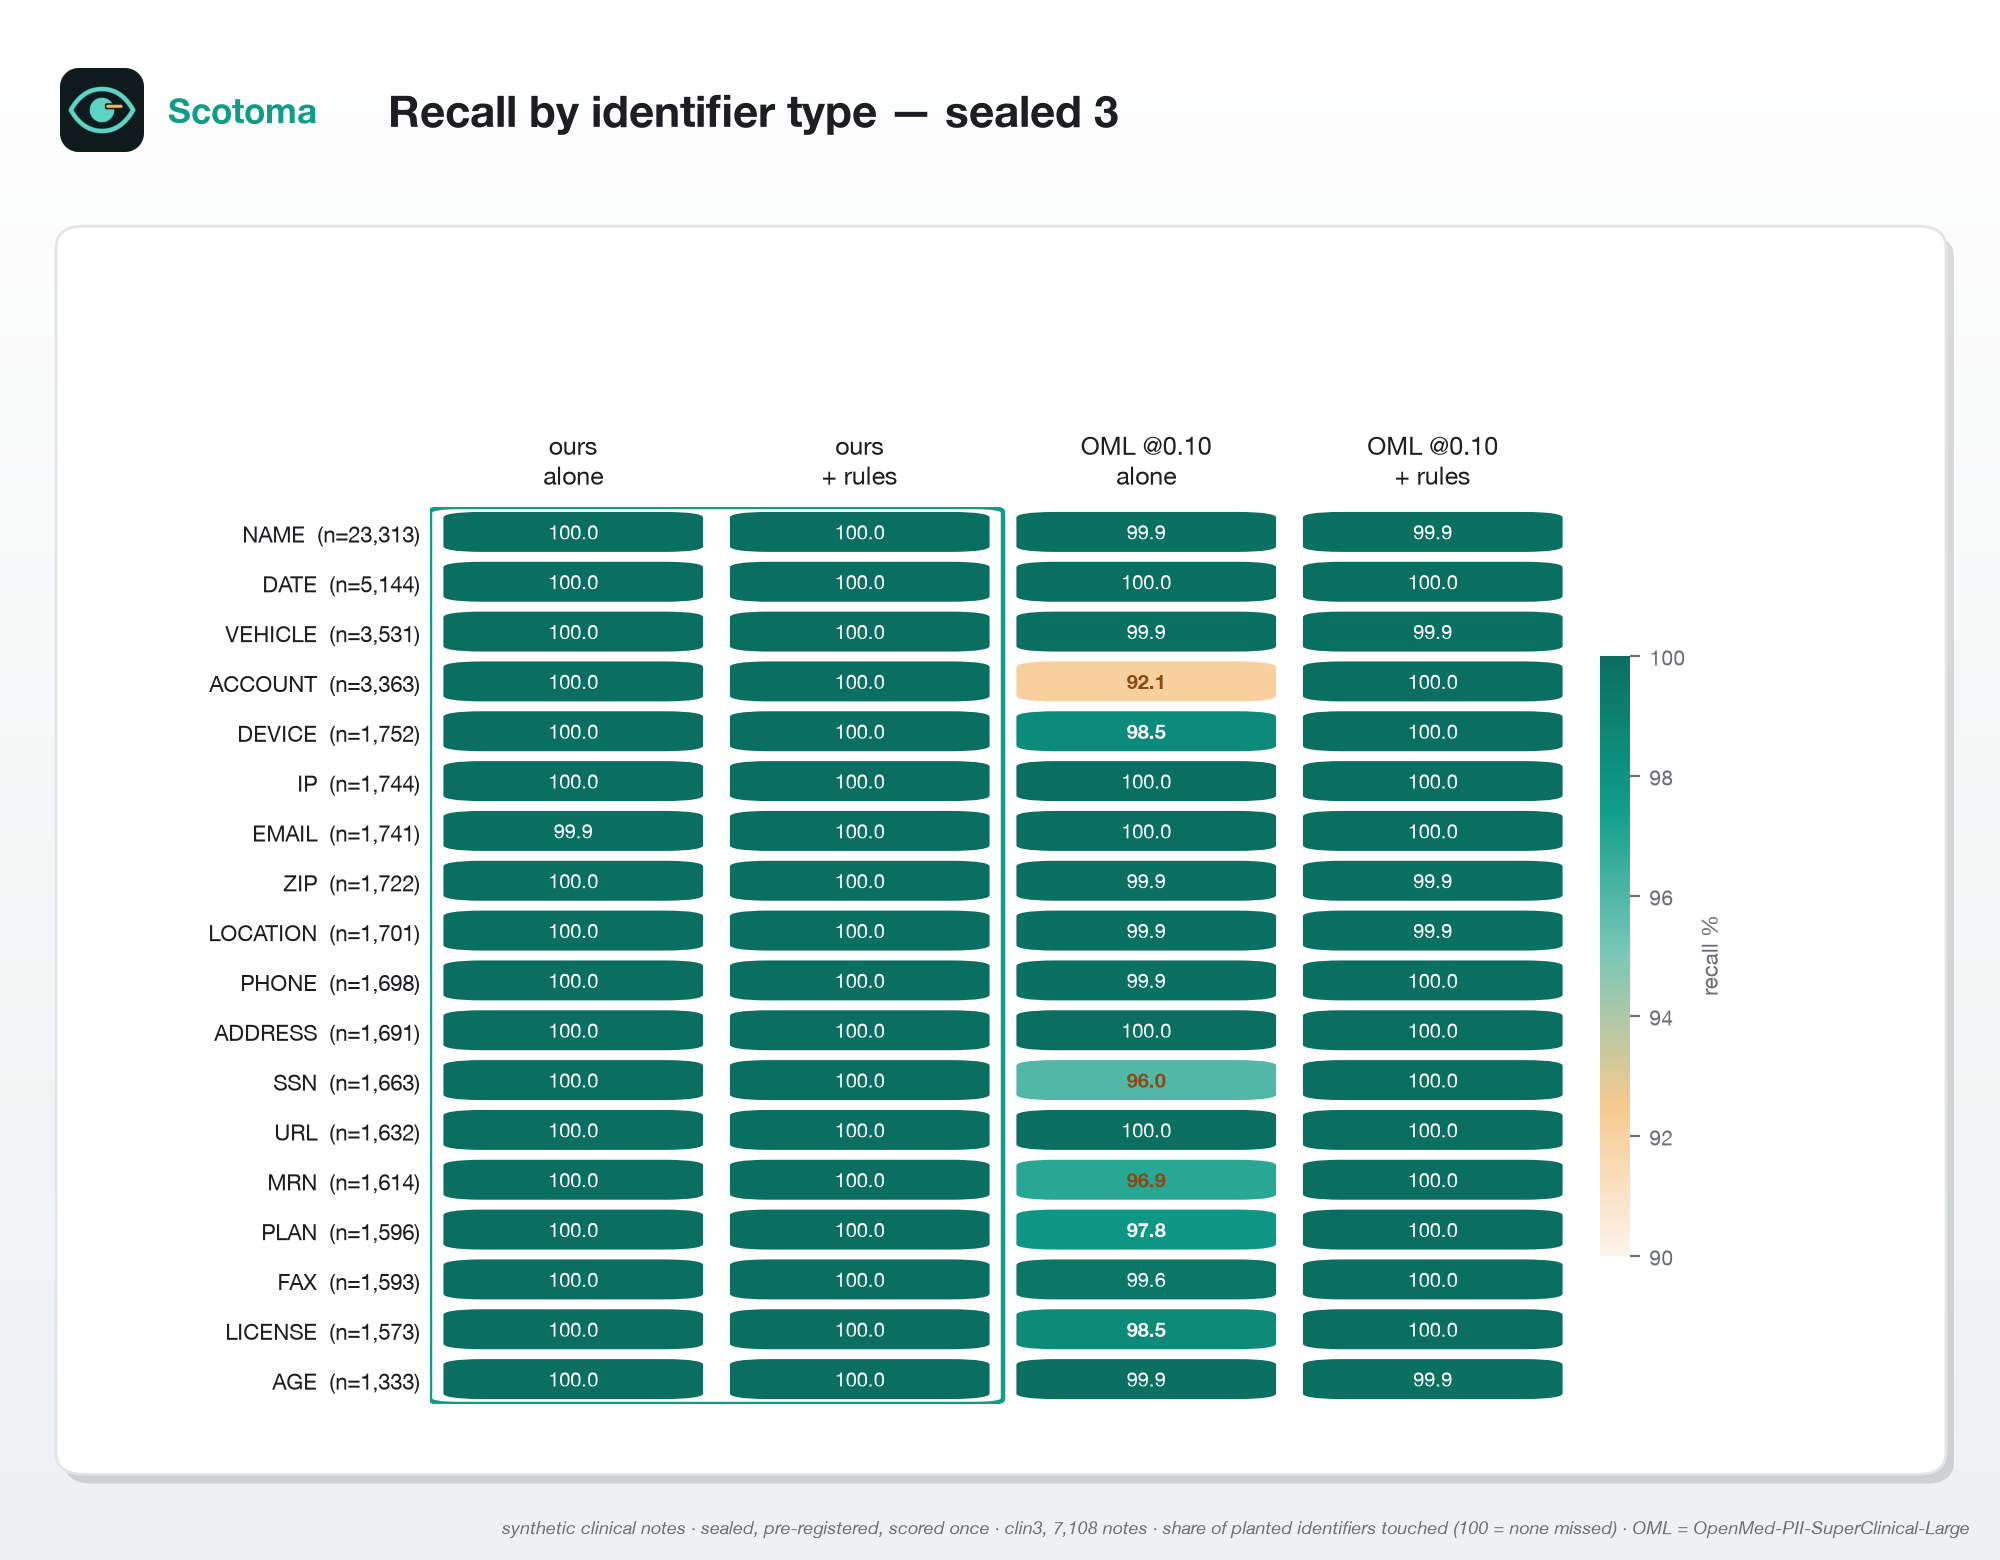
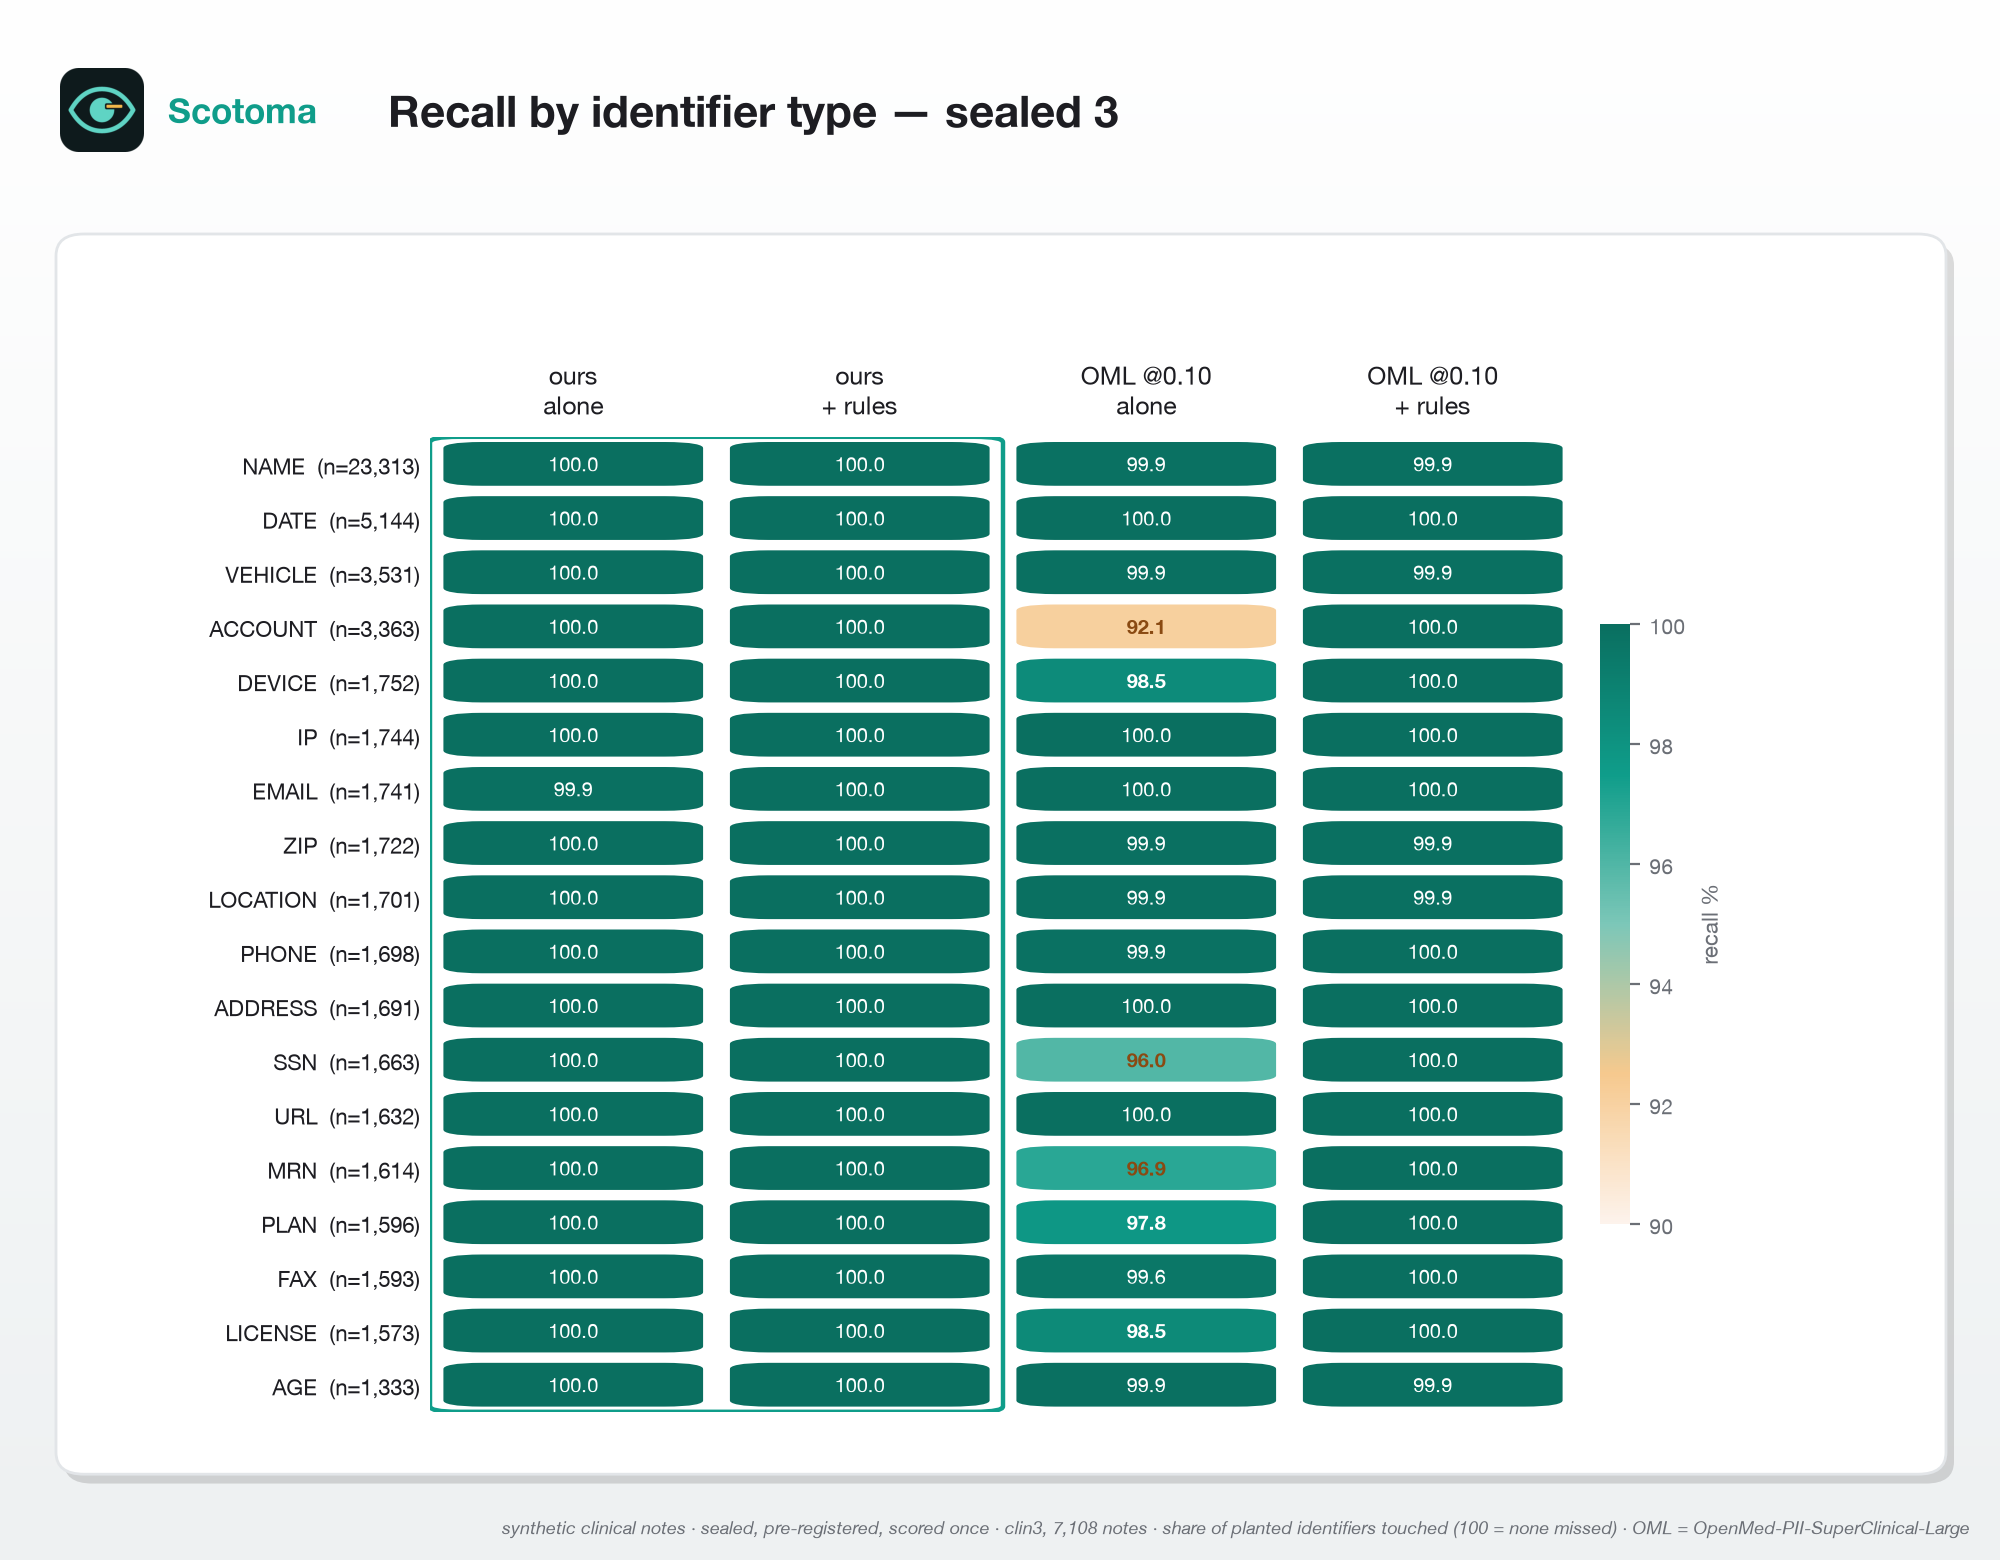
Figure fixes round 2: honest outputs, margins, no overlaps
- pipeline: drop unbuilt 'protect & unlock' output; 3 outputs
- field: explicit ylim so last row's bar shows fully; teal legend
  swatches outside the card
- progress: y starts at 0; verdict+p under each round as xticklabels
- speed: removed 'better' arrow and empty size panel; bubble labels
  carry 'name · size'; wider axes + leader lines fan out the 19-28 ms
  cluster; extra bottom margin
- hero: inner y margins so panel titles/labels clear card borders
- categories: card tightened around header row
- overlap gate now also checks legend texts and flags axes patches
  escaping their axes bounds

Changed region(s): [[0.093, 0.2154, 0.837, 0.9231], [0.837, 0.5846, 0.868, 0.6154]]

diff --git a/plots/make_card_figures.py b/plots/make_card_figures.py
@@ -171,6 +171,11 @@ def overlap_check(fig, name):
     canvas = fig.bbox
 
     texts = []
+    for leg in fig.legends:
+        for t in leg.texts:
+            bb = _ext(t, renderer)
+            if bb and t.get_text().strip():
+                texts.append((bb, f"leg:{t.get_text()[:38]!r}"))
     for t in fig.texts:
         bb = _ext(t, renderer)
         if bb and t.get_text().strip() and t.get_visible():
@@ -220,6 +225,19 @@ def overlap_check(fig, name):
                           pb.y0 - 2 <= ba.y0 and ba.y1 <= pb.y1 + 2)
                 if not inside:
                     bad.append(f"{da} crosses patch")
+    # bars/shapes must stay inside their axes (they don't clip by default)
+    for ax in fig.axes:
+        ab = ax.get_window_extent(renderer)
+        for p in ax.patches:
+            if isinstance(p, FancyArrowPatch):
+                continue
+            pb = _ext(p, renderer)
+            if not pb:
+                continue
+            if (pb.x0 < ab.x0 - 4 or pb.x1 > ab.x1 + 4 or
+                    pb.y0 < ab.y0 - 4 or pb.y1 > ab.y1 + 4):
+                bad.append(f"{type(p).__name__} escapes axes "
+                           f"{ab.width:.0f}x{ab.height:.0f}")
     if bad:
         raise AssertionError(
             f"{name}: {len(bad)} overlaps:\n  " + "\n  ".join(bad[:60]))
@@ -392,6 +410,7 @@ def draw_hero(d, dark=False):
         ax.set_title(title, loc="left", fontsize=9.5, fontweight="bold",
                      color=sub, pad=6)
         ax.set_xlim(0, xmax)
+        ax.set_ylim(-0.75, len(rows) - 0.15)
         ax.set_xticks([])
         style_ax(ax, dark)
         ax.spines[["bottom", "left"]].set_visible(False)
@@ -511,17 +530,19 @@ def fig_field():
                   darken(col))
     ax.set_yticks(ys)
     ax.set_yticklabels([r[0] for r in rows], fontsize=9.5, color=INK)
+    ax.set_ylim(-0.62, len(rows) - 0.35)
     ax.invert_yaxis()
     ax.set_xlim(0, 108)
     ax.set_xticks([0, 25, 50, 75])
     ax.set_xlabel("% of notes", fontsize=9, color=SUB)
     style_ax(ax)
 
-    handles = [Rectangle((0, 0), 1, 1, facecolor="#bbbbbb"),
-               Rectangle((0, 0), 1, 1, facecolor="#bbbbbb", alpha=0.45)]
-    fig.legend(handles, ["+ Scotoma rules", "model alone"], loc="upper right",
-               bbox_to_anchor=(0.965, 0.895), ncol=1, frameon=False,
-               fontsize=8.5)
+    handles = [Rectangle((0, 0), 1, 1, facecolor=TEAL),
+               Rectangle((0, 0), 1, 1, facecolor=tint(TEAL, 0.55))]
+    fig.legend(handles, ["+ Scotoma rules", "model alone"],
+               loc="lower left", bbox_to_anchor=(0.66, 0.845), ncol=2,
+               frameon=False, fontsize=8.5, handlelength=1.4,
+               columnspacing=1.2)
     save(fig, "field.png")
 
 
@@ -579,12 +600,13 @@ def fig_speed():
                          "scored once · + rules, 860 notes, one Mac CPU · "
                          "bubble = ONNX file size · not shown: GLiNER ×4, "
                          "privacy-filter, Presidio (GPU-precomputed, n/m)")
-    ax = card_axes(fig, (0.028, 0.055, 0.70, 0.80), pad=0.03)
-    ax.set_position([0.095, 0.10, 0.60, 0.70])
+    ax = card_axes(fig, (0.028, 0.055, 0.945, 0.80), pad=0.03)
+    ax.set_position([0.085, 0.115, 0.845, 0.685])
 
     # better-quadrant: soft teal gradient, bottom-left
-    ax.set_xlim(-15, 300)
+    ax.set_xlim(-5, 305)
     ax.set_ylim(-9, 80)
+    ax.set_xticks([0, 50, 100, 150, 200, 250, 300])
     gx = np.linspace(0, 1, 200)[None, :, None]
     quad = np.zeros((1, 200, 4))
     quad[..., :3] = matplotlib.colors.to_rgb(tint(TEAL, 0.55))
@@ -593,19 +615,20 @@ def fig_speed():
               aspect="auto", zorder=0)
     ax.text(10, 24, "better", fontsize=13, fontweight="bold",
             color=darken(TEAL), alpha=0.75, ha="left")
-    ax.annotate("", xy=(6, 3), xytext=(28, 16),
-                arrowprops=dict(arrowstyle="-|>", color=darken(TEAL), lw=1.6))
+
 
     # label boxes in data coords (x-ms, y-%, ha): fanned around the
     # clustered bottom-left points so nothing collides
-    labels = {
-        "Scotoma-small v1": (34, -3.0, "left"),
-        "OpenMed-small @0.02": (2, 9.5, "left"),
-        "Stanford @0.10": (44, 1.8, "left"),
-        "OpenMed-large @0.10": (225, 4.5, "left"),
-        "ai4privacy en": (114, 54, "left"),
-        "ai4privacy cat": (114, 64, "left"),
-        "iiiorg/piiranha-v1": (114, 73, "left"),
+    def fmt_mb(mb):
+        return f"{mb/1000:.2f} GB" if mb > 900 else f"{mb:.0f} MB"
+    labels = {  # name -> (x, y, ha) for a label that includes model size
+        "Scotoma-small v1": (60, 8.5, "left"),
+        "OpenMed-small @0.02": (52, 16, "left"),
+        "Stanford @0.10": (85, 12, "left"),
+        "OpenMed-large @0.10": (215, 6.5, "left"),
+        "ai4privacy en": (120, 50, "left"),
+        "ai4privacy cat": (122, 62.5, "left"),
+        "iiiorg/piiranha-v1": (122, 74, "left"),
     }
     for name, x, y, mb, col in pts:
         s = 90 + np.sqrt(mb) * 9
@@ -618,20 +641,14 @@ def fig_speed():
                    edgecolor=darken(col, 0.75), linewidth=1.4, zorder=3)
         lx, ly, ha = labels[name]
         ax.plot([x, lx], [y, ly], color="#c8ccd0", lw=0.7, zorder=2)
-        ax.text(lx, ly, name, ha=ha, va="center", fontsize=8.5,
-                color=darken(col, 0.8), fontweight="bold", zorder=4)
+        ax.text(lx, ly, f"{name} · {fmt_mb(mb)}", ha=ha, va="center",
+                fontsize=8.5, color=darken(col, 0.8), fontweight="bold",
+                zorder=4)
 
     ax.set_xlabel("ms per note (CPU)", fontsize=9.5, color=INK)
     ax.set_ylabel("leaks, % of notes", fontsize=9.5, color=INK)
     style_ax(ax)
 
-    card(fig, (0.755, 0.055, 0.218, 0.80))
-    fig.text(0.775, 0.78, "model size", fontsize=9.5, fontweight="bold",
-             color=INK)
-    fig.text(0.775, 0.55,
-             "Scotoma 172 MB int8\nOpenMed-L 1.74 GB fp32\n"
-             "piiranha 1.11 GB\nai4privacy 0.60 GB",
-             fontsize=8, color=SUB)
     save(fig, "speed_vs_leaks.png")
 
 
@@ -701,6 +718,7 @@ def fig_progress():
         ax.set_position([0.075 + i * 0.485, 0.115, 0.395, 0.60])
         xs = np.arange(len(rows))
         w = 0.34
+        xlabels = []
         for x, (label, n, o, m, verdict) in zip(xs, rows):
             ro, rm = leak_rate(o), leak_rate(m)
             vbar(ax, x - w / 2, ro, w, TEAL)
@@ -712,15 +730,13 @@ def fig_progress():
                     va="bottom", fontsize=8, fontweight="bold",
                     color=darken(AMBER))
             txt, col = vstyle[verdict]
-            ax.text(x, -0.52, f"{label} · n={n:,}", ha="center", va="top",
-                    fontsize=8.5, color=INK, fontweight="bold")
-            ax.text(x, -0.85, txt + ("  " + pnote[setname]
-                                     if verdict == "win" else ""),
-                    ha="center", va="top", fontsize=8, color=darken(col),
-                    fontweight="bold")
+            tail = f"{txt} {pnote[setname]}" if verdict == "win" else txt
+            xlabels.append(f"{label} · n={n:,}\n{tail}")
         ax.set_xlim(-0.6, 2.6)
-        ax.set_ylim(-1.15, 2.35)
-        ax.set_xticks([])
+        ax.set_ylim(0, 2.35)
+        ax.set_yticks([0, 1, 2])
+        ax.set_xticks(xs)
+        ax.set_xticklabels(xlabels, fontsize=8.5, color=INK)
         ax.set_title(setname, loc="left", fontsize=10, fontweight="bold",
                      color=INK, pad=6)
         ax.set_ylabel("leaks, %", fontsize=9, color=INK)
@@ -765,8 +781,8 @@ def fig_categories():
                          "scored once · clin3, 7,108 notes · share of planted "
                          "identifiers touched (100 = none missed) · OML = "
                          "OpenMed-PII-SuperClinical-Large")
-    card(fig, (0.028, 0.055, 0.945, 0.80))
-    ax = fig.add_axes([0.215, 0.10, 0.60, 0.575])
+    card(fig, (0.028, 0.055, 0.945, 0.795))
+    ax = fig.add_axes([0.215, 0.095, 0.60, 0.625])
     ax.set_facecolor("none")
     ax.set_xlim(-0.5, len(syscols) - 0.5)
     ax.set_ylim(-0.5, len(cats) - 0.5)
@@ -923,18 +939,18 @@ def fig_pipeline():
 
     # outputs container
     ax.add_patch(FancyBboxPatch(
-        (0.795, 0.035), 0.175, 0.475,
+        (0.795, 0.035), 0.175, 0.44,
         boxstyle="round,pad=0,rounding_size=0.016",
         facecolor="white", edgecolor="#d9dde1", linewidth=1.1,
         linestyle="--", zorder=2))
-    ax.text(0.8825, 0.46, "outputs", ha="center", fontsize=8,
+    ax.text(0.8825, 0.435, "outputs", ha="center", fontsize=8,
             fontweight="bold", color=SUB, zorder=4)
     outputs = ["[NAME_1] tags", "realistic stand-ins",
-               "black boxes on files", "protect & unlock"]
-    oy = [0.35, 0.25, 0.15, 0.05]
+               "black boxes on files"]
+    oy = [0.30, 0.175, 0.05]
     for label, y in zip(outputs, oy):
         box(0.808, y, 0.149, 0.088, label, fc="#f7f8f9", ec="#d9dde1", fs=8)
-    arrow(0.8825, 0.545, 0.8825, 0.505)
+    arrow(0.8825, 0.545, 0.8825, 0.485)
 
     # privacy band with lock
     band_y = 0.055
